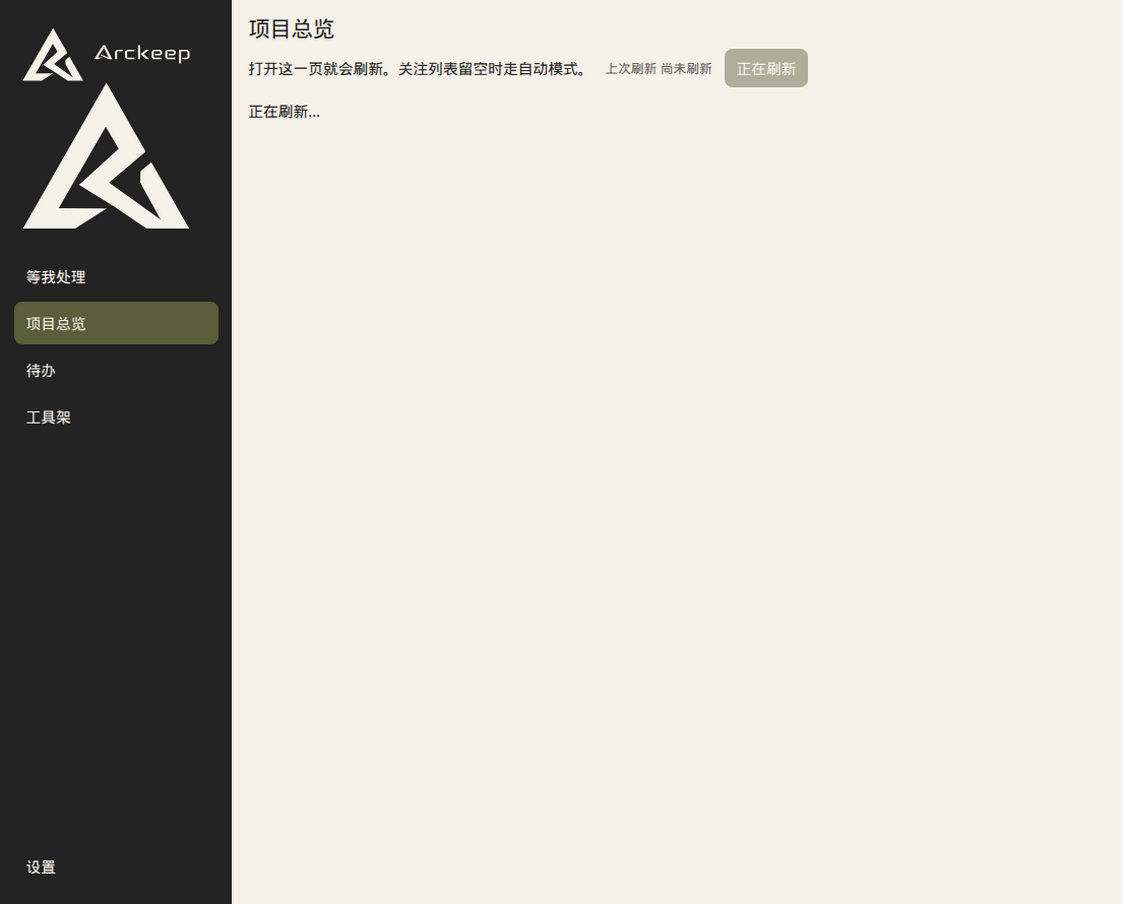
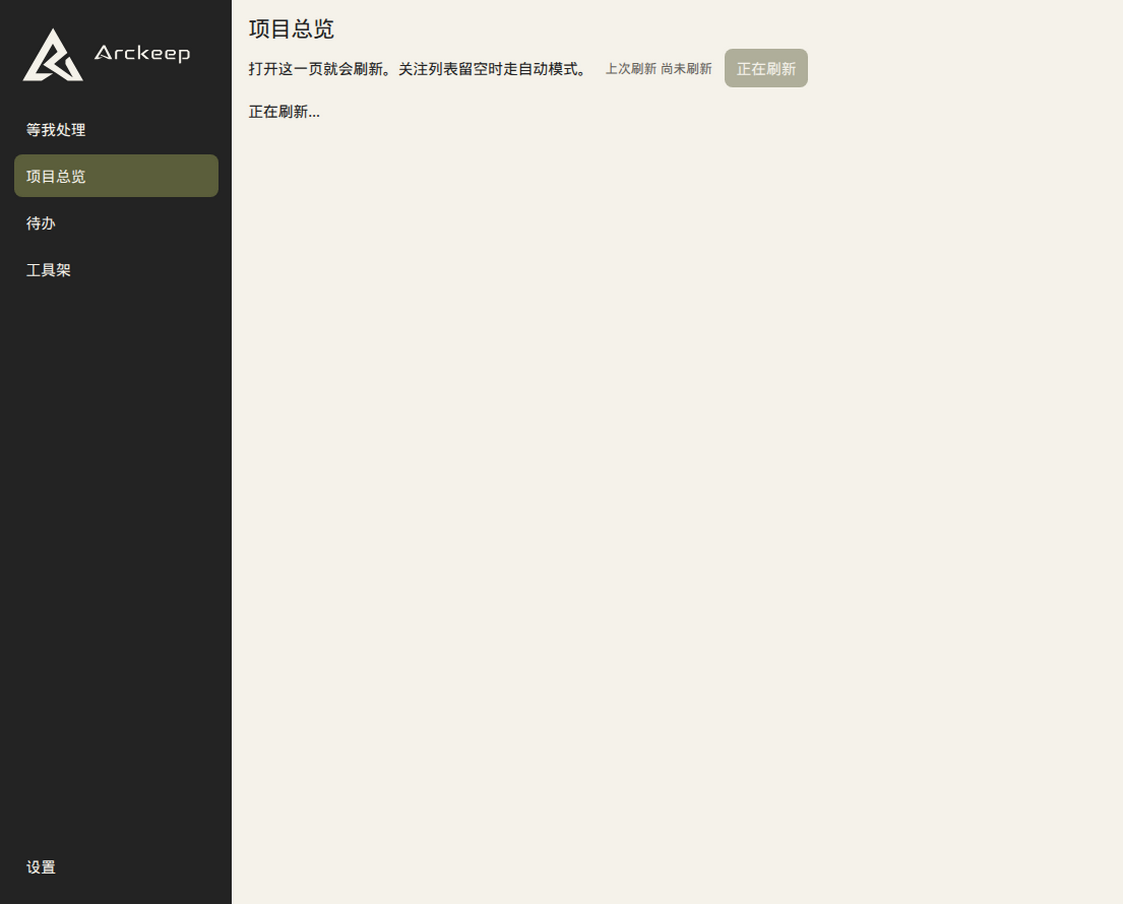
#3 侧栏只保留紧凑字标
方形标志原先被 .brand img 撑到 168px，叠在字标下面把导航顶下去。默认隐藏它，约 800px 收起时才显示 40px 的小符号。

Changed region(s): [[0.0, 0.0929, 0.2182, 0.4956]]

diff --git a/src/renderer/styles.css b/src/renderer/styles.css
@@ -47,7 +47,8 @@ button, input {
   height: auto;
 }
 
-.brand-symbol {
+/* Beat `.brand img` so the square symbol stays hidden until the narrow sidebar. */
+.brand .brand-symbol {
   display: none;
   width: 40px;
   height: 40px;
@@ -533,8 +534,8 @@ main:has(.overview) {
   .app { grid-template-columns: 84px minmax(0, 1fr); }
   .nav { align-items: stretch; padding: 16px 8px; }
   .brand { display: flex; justify-content: center; padding: 4px 0 14px; }
-  .brand-word { display: none; }
-  .brand-symbol { display: block; }
+  .brand .brand-word { display: none; }
+  .brand .brand-symbol { display: block; width: 40px; height: 40px; }
   main { min-width: 0; padding: 16px; }
   #nav button, #settings-button {
     padding: 8px 4px;
